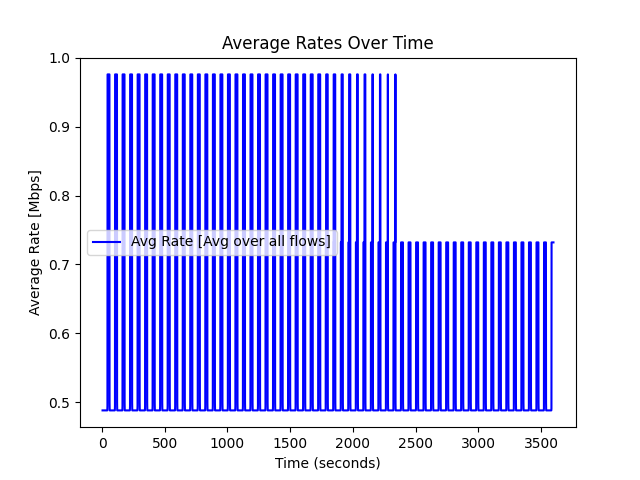
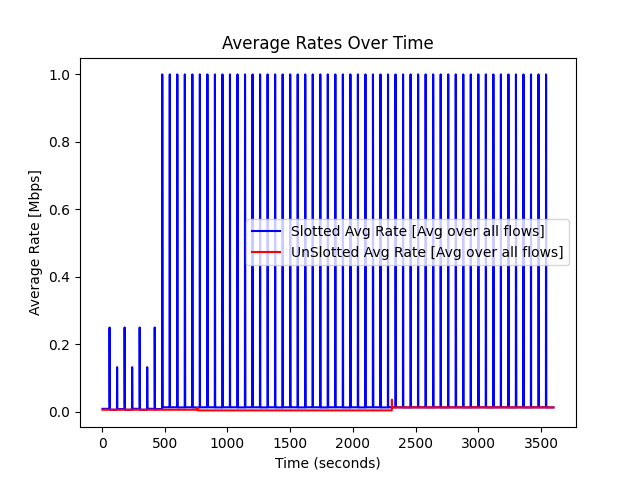
Aviv bugs fixed

diff --git a/DIAMOND/test/inference_vs_competitors_simple.py b/DIAMOND/test/inference_vs_competitors_simple.py
@@ -74,14 +74,14 @@ if __name__ == "__main__":
 
 
     # number of paths to choose from
-    action_size = 8                      #search space limitaions?
+    action_size = 10                      #search space limitaions?
 
     # flow demands
     F = [
-        {"source": 0, "destination": 8, "packets": 20, "time_constrain": 10 , 'flow_idx': 0 }, #Packets [MegaBytes]
-        {"source": 0, "destination": 8, "packets": 10000, "time_constrain": 10, 'flow_idx': 1}#, #Packets [MegaBytes]
-        # {"source": 0, "destination": 8, "packets": 1, "time_constrain": 10, 'flow_idx': 2}, #Packets [MegaBytes]
-        # {"source": 0, "destination": 8, "packets": 1000, "time_constrain": 10, 'flow_idx': 3}
+        {"source": 0, "destination": 8, "packets": 10, "time_constrain": 10 , 'flow_idx': 0 },
+        {"source": 0, "destination": 8, "packets": 10, "time_constrain": 10, 'flow_idx': 1}, #Packets [MegaBytes]
+        {"source": 0, "destination": 8, "packets": 10, "time_constrain": 10, 'flow_idx': 2}, #Packets [MegaBytes]
+        {"source": 0, "destination": 8, "packets": 10000, "time_constrain": 10, 'flow_idx': 3}
     ]
 
     slotted_env = SlottedGraphEnvPower( adjacency_matrix=A,
@@ -92,21 +92,39 @@ if __name__ == "__main__":
                                         reward_weights=reward_weights,
                                         telescopic_reward = True,
                                         direction = 'minimize',
-                                        slot_duration=5,          # [in SEC]
+                                        slot_duration=60,          # [in SEC]
                                         Tot_num_of_timeslots = 60, # [in Minutes]
-                                        render_mode = True,
+                                        render_mode = False,
                                         trx_power_mode='gain',
-                                        channel_gain = 1)
+                                        channel_gain = 1,
+                                        simualte_residauls = False)
+
+    UNslotted_env = SlottedGraphEnvPower( adjacency_matrix=A,
+                                        bandwidth_matrix=C,
+                                        flows=F,
+                                        node_positions=P,
+                                        k=action_size,
+                                        reward_weights=reward_weights,
+                                        telescopic_reward = True,
+                                        direction = 'minimize',
+                                        slot_duration=60*60,          # [in SEC]
+                                        Tot_num_of_timeslots = 1, # [in Minutes]
+                                        render_mode = False,
+                                        trx_power_mode='gain',
+                                        channel_gain = 1,
+                                        simualte_residauls = False)    
 
     slotted_diamond = SlottedDIAMOND(grrl_model_path=MODEL_PATH)
     
-    Tot_rates = slotted_diamond(slotted_env, grrl_data=False)
+    Tot_rates_sloted = slotted_diamond(slotted_env, grrl_data=False)
+    Tot_rates_UNslotted = slotted_diamond(UNslotted_env, grrl_data=False)
 
 
     # plot rates
-    time_axis = list(range(len(Tot_rates)))
+    time_axis = list(range(len(Tot_rates_sloted)))
     plt.figure()
-    plt.plot(time_axis[4:], Tot_rates[4:], linestyle='-', color='b', label='Avg Rate [Avg over all flows]')
+    plt.plot(time_axis[4:], Tot_rates_sloted[4:], linestyle='-', color='b', label='Slotted Avg Rate [Avg over all flows]')
+    plt.plot(time_axis[4:], Tot_rates_UNslotted[4:], linestyle='-', color='r', label='UnSlotted Avg Rate [Avg over all flows]')
     # Add labels and title
     plt.xlabel('Time (seconds)')
     plt.ylabel('Average Rate [Mbps]')

diff --git a/DIAMOND/environment/slotted_graph_env_power.py b/DIAMOND/environment/slotted_graph_env_power.py
@@ -30,6 +30,7 @@ class SlottedGraphEnvPower:
                  seed=42,
                  slot_duration = 60,          # [SEC]
                  Tot_num_of_timeslots = 60,   # [Minutes]
+                 simualte_residauls = True,
                  **kwargs):
         
         
@@ -97,6 +98,7 @@ class SlottedGraphEnvPower:
         self.active_links_after_time_slot = []
         
         self.render_mode = render_mode
+        self.simualte_residauls = simualte_residauls
         # initialization once
         self.__create_graph()
         self.__calc_possible_actions()
@@ -631,7 +633,10 @@ class SlottedGraphEnvPower:
             # next we looks only at links that is not residual and belong to flow a (there can be only 2)
             list_of_links_4flow_a = [d for d in sorted_active_links if d.get('flow_idx') == flow_idx and not d.get('residual_name')]
             _2flows = next((d for d in list_of_links_4flow_a if d.get('link')[0] == a['source']), {})
-            _2res = [d for d in list_of_links_4flow_a if d.get('link')[0] != a['source']]
+            if self.simualte_residauls:
+                _2res = [d for d in list_of_links_4flow_a if d.get('link')[0] != a['source']]
+            else:
+                _2res = []
             list_of_links_4flow_a.remove(_2flows) if _2flows else None
             if _2flows:
                 _2flows = dict(source=a['source'],
@@ -729,6 +734,10 @@ class SlottedGraphEnvPower:
         # gather rate and delay data
         all_data , Avg_Rate_over_flows = self.get_rates_data()
 
+        # reset routing metrics
+        self.routing_metrics = dict(rate=dict(rate_per_flow=np.full([self.num_flows,self.slot_duration],np.inf).astype(np.float64)),
+                                    delay=dict(end_to_end_delay_per_flow=np.zeros(self.num_flows)))
+
         # reset demands for the next time slot
         self.allocated = []
         allocated = [a[0] for a in self.allocated]
@@ -774,7 +783,10 @@ class SlottedGraphEnvPower:
                     avg_rate_in_sedond += data[flow,second]
                     divide_by += 1
 
-            avg_rate_in_sedond = avg_rate_in_sedond / divide_by
+            if divide_by == 0:
+                avg_rate_in_sedond = None
+            else:
+                avg_rate_in_sedond = avg_rate_in_sedond / divide_by
             Avg_Rate_over_flows.append(avg_rate_in_sedond)
 
         # Avg_Rate_over_flows = np.mean(data, axis=0)
